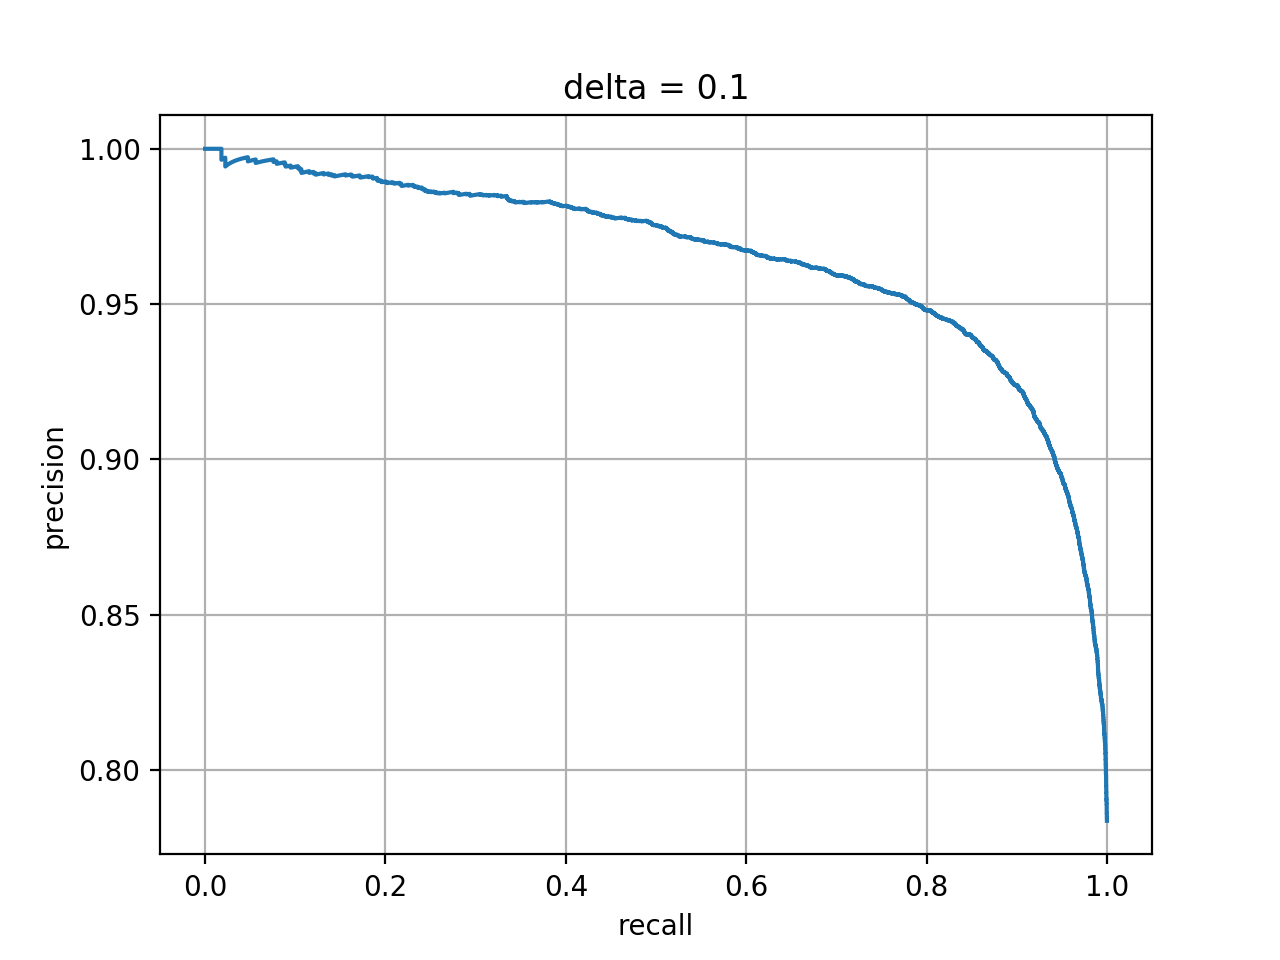
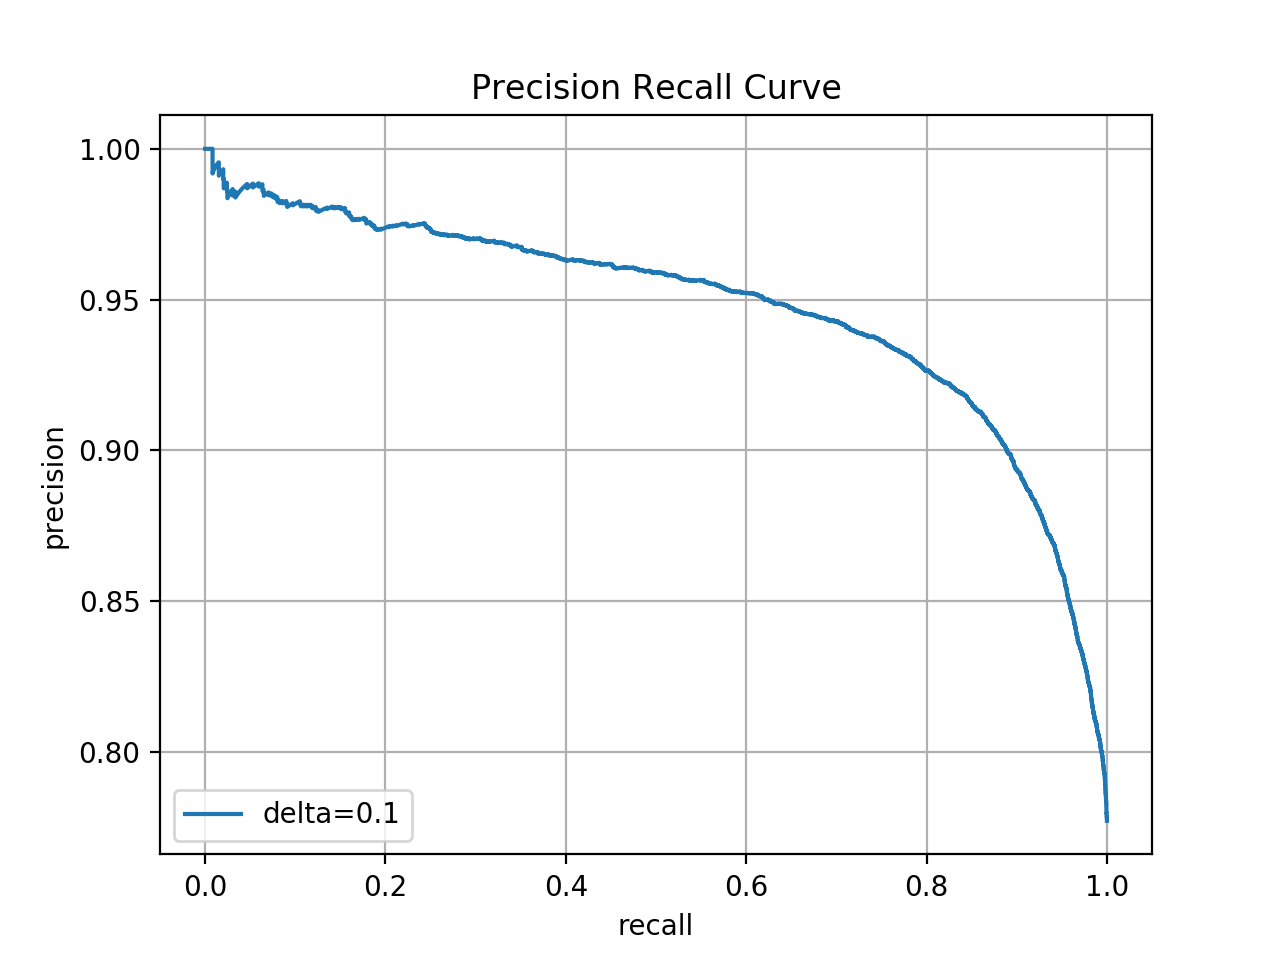
mp3:update data usage

diff --git a/mp3/main.py b/mp3/main.py
@@ -129,9 +129,9 @@ def rank_nb_log_ratio(pos_model, neg_model):
     for word in vocab
   }
 
-  print('bland:', pos_model.probs['bland'], neg_model.probs['bland'])
-  print('worst:', pos_model.probs['worst'], neg_model.probs['worst'])
-  print('2-star:', pos_model.probs['2-star'], neg_model.probs['2-star'])
+  # print('bland:', pos_model.probs['bland'], neg_model.probs['bland'])
+  # print('worst:', pos_model.probs['worst'], neg_model.probs['worst'])
+  # print('2-star:', pos_model.probs['2-star'], neg_model.probs['2-star'])
   # print('delici:', log_ratios['delici'])
   # print('worst:', log_ratios['worst'])
 
@@ -142,28 +142,17 @@ def rank_nb_log_ratio(pos_model, neg_model):
   print('Bottom 20 log ratio:')
   print(log_ratios[-20:])
 
-def naive_bayes(corpus, vocab):
-  # rank_nb_log_ratio(pos_model, neg_model)
+def naive_bayes(train, test, vocab):
+  # nb = NaiveBayes(train + test, vocab, 0.1)
+  # rank_nb_log_ratio(nb.pos_model, nb.neg_model)
 
-  if os.path.isfile('./test_corpus.pickle'):
-    print('load save ./test_corpus.pickle')
-
-    with open('./test_corpus.pickle','rb') as pf:
-      test_corpus = pickle.load(pf)
-  else:
-    test_corpus = read_folder('./yelp/test')
-    for d in test_corpus:
-      d.filter_vocab(vocab)
-
-    with open('./test_corpus.pickle','wb') as pf:
-      pickle.dump(test_corpus, pf)
-
-  deltas = [0.01, 0.1, 1, 10]
+  deltas = [0.1]
+  # deltas = [0.01, 0.1, 1, 10]
 
   for delta in deltas:
-    nb = NaiveBayes(corpus, vocab, delta)
+    nb = NaiveBayes(train, vocab, delta)
 
-    results = sorted([(d, nb.f_value(d)) for d in test_corpus], key=lambda i: i[1], reverse=True)
+    results = sorted([(d, nb.f_value(d)) for d in test], key=lambda i: i[1], reverse=True)
 
     results = [r[0] for r in results]
 
@@ -185,10 +174,10 @@ def naive_bayes(corpus, vocab):
   plt.ylabel('precision')
   plt.title('Precision Recall Curve')
   plt.legend([
-    'delta=0.01',
+    # 'delta=0.01',
     'delta=0.1',
-    'delta=1',
-    'delta=10'
+    # 'delta=1',
+    # 'delta=10'
   ], loc='lower left')
   plt.show()
 
@@ -206,9 +195,7 @@ def tf_idf(corpus, idf):
   for d in corpus:
     d.set_vector(vocab, idf)
 
-def knn(corpus, vocab):
-  idf = calc_idf(corpus, vocab)
-
+def knn(corpus, idf):
   query = read_folder('./query')
   tf_idf(query, idf)
 
@@ -221,14 +208,14 @@ def knn(corpus, vocab):
 
   for i, d in enumerate(query):
     print('Query Doc', i)
-    print(d.tokens)
+    print(d.features)
 
     # neighbors = classifier.brute_force(d.vector)
     neighbors = classifier.neighbors(d.vector)
     print('Query Neighbors', i)
 
     for n in neighbors:
-      print(n.tokens)
+      print(n.features)
       print('\n')
 
     print('\n')
@@ -236,32 +223,48 @@ def knn(corpus, vocab):
   print("--- %s seconds ---" % (time.time() - start_time))
 
 
+def split_data(corpus, i):
+  # 5-fold cross validation
+  chk_size = math.ceil(len(corpus) / 5)
 
+  start_idx = chk_size * i
+  end_idx = chk_size * (i + 1)
+
+  training = corpus[:start_idx] + corpus[end_idx:]
+  testing = corpus[start_idx:end_idx]
+
+  return training, testing
 
 def main():
   if os.path.isfile(SAVE_PATH):
     print('load save', SAVE_PATH)
 
     with open(SAVE_PATH,'rb') as pf:
-      corpus, vocab, idf = pickle.load(pf)
+      train, test, vocab, idf = pickle.load(pf)
   else:
-    corpus = read_folder('./yelp')
-    vocab = select_features(corpus)
+    train = read_folder('./yelp/train')
+    test = read_folder('./yelp/test')
+    vocab = select_features(train)
 
-    print('Corpus size:', len(corpus))
-    for d in corpus:
+    print('Train Corpus size:', len(train))
+    print('Test Corpus size:', len(test))
+    for d in train:
       d.filter_vocab(vocab)
-    corpus = [d for d in corpus if len(d.features) > 5]
-    print('Corpus size (feature > 5):', len(corpus))
+    for d in test:
+      d.filter_vocab(vocab)
+    train = [d for d in train if len(d.features) > 5]
+    test = [d for d in test if len(d.features) > 5]
+    print('Train Corpus size (feature > 5):', len(train))
+    print('Test Corpus size (feature > 5):', len(test))
 
-    idf = calc_idf(corpus, vocab)
-    tf_idf(corpus, idf)
+    idf = calc_idf(train, vocab)
+    tf_idf(train + test, idf)
 
     with open(SAVE_PATH, 'wb') as pf:
-      pickle.dump((corpus, vocab), pf)
+      pickle.dump((train, test, vocab, idf), pf)
 
-  naive_bayes(corpus, vocab)
-  # knn(corpus, idf)
+  # naive_bayes(train, test, vocab)
+  knn(train + test, idf)
 
 main()
 

diff --git a/mp3/naive_bayes.py b/mp3/naive_bayes.py
@@ -7,32 +7,35 @@ from collections import Counter
 # BernoulliNB
 class NaiveBayes:
   def __init__(self, corpus, vocab, delta = 0.1):
+    self.corpus = corpus
+    self.vocab = vocab
+
     pos_count = len([d for d in corpus if d.label])
     neg_count = len(corpus) - pos_count
     pos_prob = pos_count / len(corpus)
     neg_prob = neg_count / len(corpus)
     self.log_ratio = math.log(pos_prob / neg_prob)
 
-    self.build_lang_models(corpus, vocab, delta)
+    self.build_lang_models(delta)
 
-  def build_lang_models(self, reviews, vocab, delta = 0.1):
+  def build_lang_models(self, delta = 0.1):
     pos_counts = Counter()
     neg_counts = Counter()
 
-    for review in reviews:
+    for review in self.corpus:
       if review.label:
-        pos_counts.update(review.features.keys())
+        pos_counts.update(review.features)
       else:
-        neg_counts.update(review.features.keys())
+        neg_counts.update(review.features)
 
-    self.pos_model = LanguageModel(pos_counts, vocab, delta)
-    self.neg_model = LanguageModel(neg_counts, vocab, delta)
+    self.pos_model = LanguageModel(pos_counts, self.vocab, delta)
+    self.neg_model = LanguageModel(neg_counts, self.vocab, delta)
 
   def predict(self, review):
     return 1 if self.f_value(review) >= 0 else 0
 
   def f_value(self, review):
     return self.log_ratio + sum([
-      math.log(self.pos_model.probs[w]) - math.log(self.neg_model.probs[w])
-      for w in review.features
+      c * (math.log(self.pos_model.probs[w]) - math.log(self.neg_model.probs[w]))
+      for w, c in review.features.items()
     ])

diff --git a/mp3/README.md b/mp3/README.md
@@ -9,24 +9,25 @@ Top 20 words selected by Information Gain
 bland
 delici
 mediocr
-n't
 perfect
-decent
+n't
 rude
 bad
+decent
 amaz
-terribl
-favorit
 disappoint
-worst
-averag
+terribl
 overpr
+favorit
+averag
+worst
 hype
+expect
 meh
 love
-expect
 horribl
 ```
+
 
 Top 20 words selected by Chi Square
 
@@ -34,28 +35,28 @@ Top 20 words selected by Chi Square
 bland
 mediocr
 rude
-decent
 bad
-n't
+decent
 delici
 terribl
-worst
-averag
+n't
 overpr
+worst
 disappoint
-meh
+averag
 perfect
+meh
 hype
-amaz
 horribl
-overr
-lack
+expect
+amaz
 poor
+understand
 ```
 
 The size of the finalized controlled vocabulary is `5000`.
 
-`55268` review documents are there in the resulting corpus.
+`55516` review documents are there in the resulting corpus.
 
 ### 1.2
 
@@ -131,52 +132,53 @@ Top 20 words of ranked log-ratio list
 ```
 gluttoni
 ryan
-mmmmmmm
 fantasi
+mmmmmmm
 seamless
 yummo
 boutiqu
 hoagi
 underr
-devin
-maxim
-meticul
-hand-cut
-yummmm
 lambrusco
-slow-cook
+devin
+yummmm
+maxim
+hand-cut
 lickin
-ganach
 st.loui
-tapioca
+ganach
+slow-cook
+dawn
+mmmmmmmmm
 ```
+
 
 Top 20 words of ranked log-ratio list
 
 ```
-off-night
+tablespoon
+abysm
+unappet
+overr
+flavorless
+uninspir
+over-r
+2/5
+a-ok
+unaccept
+incompet
 downhil
 unhelp
-tasteless
-nauseous
 inexcus
-ick
+tasteless
 ined
+roach
+ick
 blatant
-deplor
-wade
-indigest
-diarrhea
-a-hol
-emperor
-ineffici
-injuri
-scam
 rudest
-2-star
 ```
 
-In my opinion, many of them do not make any sense in distinguishing the positive opinion and negative opinion. It may be because the smooth parameter `delta=0.1` is too small which leads to extreme large/small log ratio of some rare words with accidental unbalanced distribution in the data.
+In my opinion, many of them are neutral and do not make any sense in distinguishing the positive and negative sentiments, such as `st.loui`. It may be because the smooth parameter `delta=0.1` is too small which leads to extreme large/small log ratio of some rare words with accidental unbalanced distribution in the data.
 
 ### 2.2 Naive Bayes as a linear classifier
 
@@ -231,8 +233,8 @@ The running time of prediction of 5 query
 
 Model | Time (seconds)
 -|-
-KNN Brute Force | 4.7720
-KNN with 5 bits random projection | 0.1535
+KNN Brute Force | 5.7899
+KNN with 5 bits random projection | 0.2182
 
 The approximate KNN can still determine the cusine of some query reviews
 
@@ -242,7 +244,7 @@ Query | Cusine
 2 | Italian
 3 | Mexican
 4 | Japanese
-5 | Peach Cobbler
+5 | Unknown
 
 However, in my opinion, determining the cuisine type cannot necessarily evaluate if the KNN results are reasonable. Because by far, the features / words have already been filtered based on how good they can distinguish the review sentiments. Based on this purpose, the "reasonable" nearest neighbours should be reviews with the same sentiment, not the same cuisine type.
 
